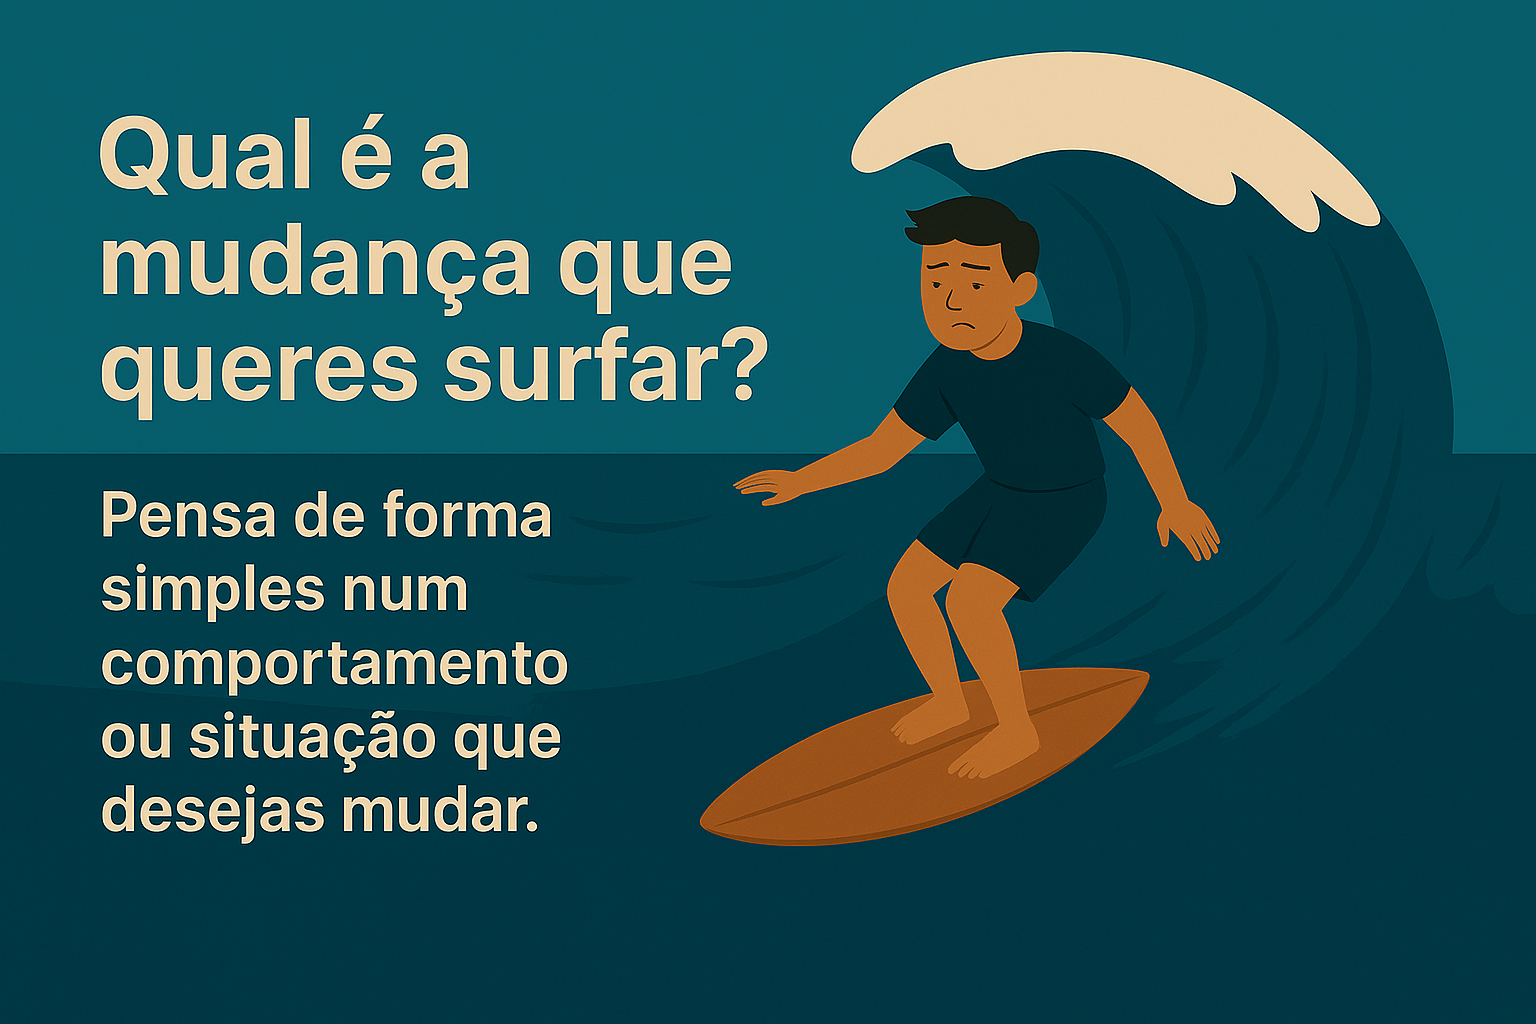
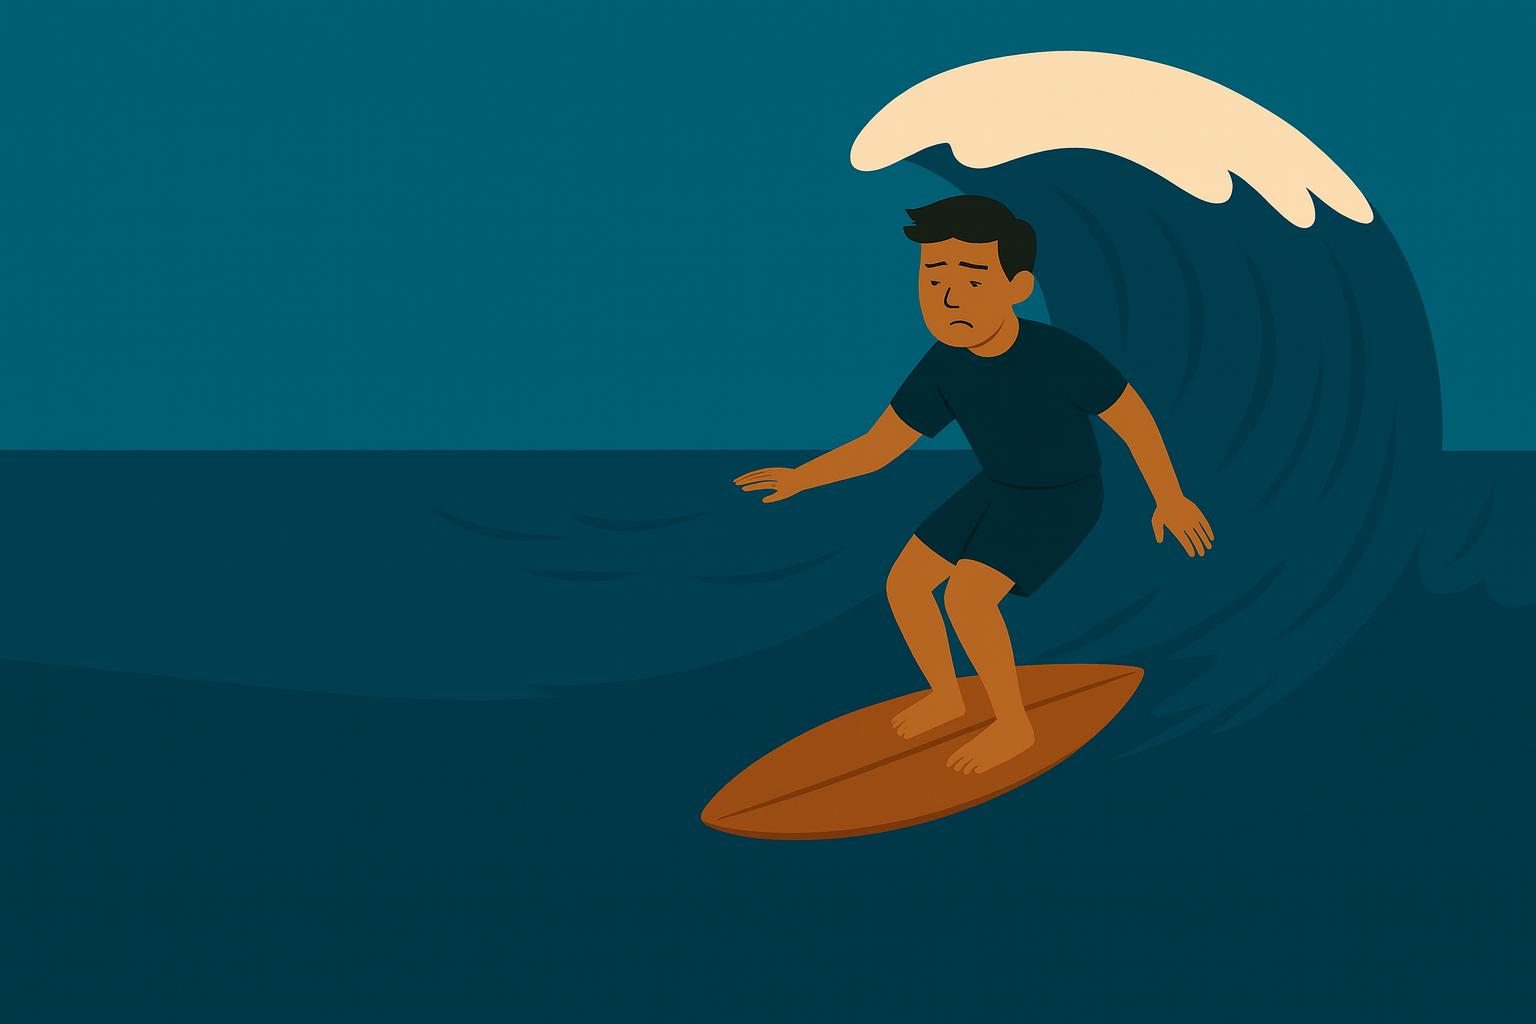
alteraçao da atividade resumo 4

diff --git a/src/components/atividades/modulo4/atividadeResumo.js b/src/components/atividades/modulo4/atividadeResumo.js
@@ -10,8 +10,6 @@ const AtividadeResumoMudanca = () => {
   const [pagina, setPagina] = useState(0);
   const [faseEscolhida, setFaseEscolhida] = useState("");
   const [faseDetalhes, setFaseDetalhes] = useState("");
-  const [pros, setPros] = useState("");
-  const [contras, setContras] = useState("");
   const [confianca, setConfianca] = useState("");
   const [confiancaDetalhes, setConfiancaDetalhes] = useState("");
   const [modalShow, setModalShow] = useState(false);
@@ -29,11 +27,12 @@ const AtividadeResumoMudanca = () => {
     setModalShow(true);
   };
 
-  // New function to handle phase button clicks (show modal with info)
-  const handlePhaseInfoClick = (faseKey) => {
-    setSelectedPhaseData(fases[faseKey]);
-    setPhaseModalShow(true);
-  };
+ const handlePhaseInfoClick = (faseKey) => {
+  const data = fases[faseKey];
+  setSelectedPhaseData(data);
+  setFaseDetalhes(data.descricao);
+  setPhaseModalShow(true);
+};
 
   const { id: moduloId } = useParams();
   const { updateUserData } = useContext(UserContext);
@@ -46,33 +45,28 @@ const AtividadeResumoMudanca = () => {
     setPagina((prev) => prev - 1);
   };
 
-  const progresso = Math.round((pagina / 5) * 100);
+  const progresso = Math.round((pagina / 4) * 100);
 
   const fases = {
     calmaria: {
       titulo: "Calmaria",
-      imagem: "/imgs/modulo4/resumo/image034.png",
-      descricao: "Nesta fase, ainda não sentes uma necessidade urgente de mudar. É como estar no mar calmo, onde tudo parece estar bem como está. Pode ser que ainda não tenhas identificado claramente o que queres mudar ou que não sintas que é o momento certo."
+      descricao: "O mar está calmo e, à primeira vista, nada parece urgente. Talvez haja sinais de que algo não está bem, mas ainda não são claros ou são facilmente postos de lado. Nesta fase, tal como quando olhamos para o mar sem pensar em surfar, ainda não estás totalmente decidido/a a entrar na água."
     },
     preparacao: {
       titulo: "Preparação",
-      imagem: "/imgs/modulo4/resumo/image036.png",
-      descricao: "Aqui já identificaste o que queres mudar e estás a preparar-te mentalmente. É como quando vês as ondas a formar-se ao longe e começas a ajustar a tua posição na prancha, preparando-te para remar."
+      descricao: "Ao longe, começa a formar-se uma onda e percebes que talvez seja o momento de agir. Já tens consciência de que algo precisa de mudar, mas ainda ponderas se deves ou não avançar agora. É como segurar a prancha e avaliar se esta é a melhor altura para entrar no mar."
     },
     remada: {
       titulo: "Remada",
-      imagem: "/imgs/modulo4/resumo/image038.png",
-      descricao: "Esta é a fase da ação! Começaste a fazer pequenas mudanças e estás ativamente a trabalhar em direção ao teu objetivo. É como remar com força para apanhar a onda - exige energia e determinação."
+      descricao: "Decidiste entrar na água e começas a remar. Estás a dar os primeiros passos concretos para a mudança, mesmo que sejam pequenos. Tal como o surfista que avança em direção à onda, estás a ganhar impulso para aproveitar o momento certo."
     },
     surfar: {
       titulo: "Surfar a Onda",
-      imagem: "/imgs/modulo4/resumo/image040.png",
-      descricao: "Estás no meio da mudança e sentes que tens controlo sobre o processo. É como quando consegues apanhar a onda perfeitamente e sentes a adrenalina de estar em equilíbrio, a deslizar sobre a água."
+      descricao: "Agora já estás na onda — a mudança está em movimento. Estás a aplicar novas estratégias e hábitos de forma consistente, tal como o surfista que aproveita a força da onda para avançar. É um momento activo e entusiasmante, em que cada movimento conta."
     },
     desafios: {
       titulo: "Desafios no Surf",
-      imagem: "/imgs/modulo4/resumo/image042.png",
-      descricao: "Às vezes a mudança traz dificuldades inesperadas ou sentes que estás a perder o controlo. É como quando a onda te derruba e tens de decidir se voltas a tentar ou se sais da água por um momento."
+      descricao: "Continuas a surfar, mas o mar pode mudar — ondas mais fortes ou correntes inesperadas podem surgir. Esta fase é sobre manter as mudanças que já conquistaste, mesmo quando aparecem desafios. Tal como no surf, é preciso adaptar-te e manter o rumo para seguir em frente."
     }
   };
 
@@ -111,10 +105,8 @@ const AtividadeResumoMudanca = () => {
   const canAdvanceFromPage = (currentPage) => {
     switch (currentPage) {
       case 2:
-        return faseEscolhida !== "";
+        return faseEscolhida !== "";;
       case 3:
-        return pros.trim() !== "" && contras.trim() !== "";
-      case 4:
         return confianca !== "";
       default:
         return true;
@@ -141,27 +133,27 @@ const AtividadeResumoMudanca = () => {
 
             {/* PÁGINA 0 - INTRODUÇÃO */}
             {pagina === 0 && (
-              <div className="text-start py-4">
+              <div className="text-center">
                 <h2 className="fw-bold mb-4" style={{ color: "#234970" }}>
                   Atividade Resumo
                 </h2>
                 <p className="lead mb-3">
-                  Sê muito <strong>bem-vindo</strong> ou <strong>bem-vinda</strong> à atividade <strong>resumo do Módulo 4 – O Poder da Mudança</strong>!
+                 <strong> Sê muito bem-vindo/a à atividade resumo do Módulo 4 – O Poder da Mudança</strong>!
                 </p>
                 <p className="mb-3 lead">
-                  O <strong>objetivo</strong> desta atividade é <strong>consolidar</strong> os <strong>conteúdos</strong> que explorámos ao longo do <strong>módulo</strong>.
+                  O objetivo desta atividade é <strong>consolidar os conteúdos</strong> que explorámos ao longo do módulo.
                 </p>
                 <p className="mb-3 lead">
-                  A <strong>mudança</strong> é como <strong>surfar uma onda</strong>: há momentos de <strong>calmaria</strong>, mas também há <strong>desafios</strong>.
+                  A mudança é como <strong>surfar uma onda</strong>: há momentos de <strong>calmaria</strong>, mas também há <strong>desafios</strong>.
                 </p>
                 <p className="mb-3 lead">
-                  Às vezes estamos <strong>prontos</strong> para apanhar a <strong>onda</strong> e, noutras, ela acaba por nos <strong>derrubar</strong>.
+                  Às vezes estamos prontos para apanhar a onda e, noutras, ela acaba por nos derrubar.
                 </p>
                 <p className="mb-3 lead">
                   Usando esta <strong>metáfora</strong>, vais criar o teu próprio <strong>percurso de mudança</strong>.
                 </p>
                 <p className="mb-4 lead">
-                  Pensa na <strong>mudança</strong> que gostarias de fazer e como a <strong>metáfora da onda</strong> pode ajudar-te a <strong>refletir</strong> sobre este <strong>processo</strong>.
+                  Pensa na <strong>mudança</strong> que gostarias de fazer e como a <strong>metáfora da onda</strong> pode ajudar-te a <strong>refletir</strong> sobre este processo.
                 </p>
                 <div className="text-center">
                   <button className="custom-btn-turquoise mt-2 px-4 py-2" onClick={avancarPagina}>
@@ -173,19 +165,28 @@ const AtividadeResumoMudanca = () => {
 
             {/* PÁGINA 1 - IMAGEM */}
             {pagina === 1 && (
-              <div className="text-center py-4">
-                <h4 className="fw-bold mb-4" style={{ color: "#234970" }}>
+                <div className="text-center"> 
+                <h4 className="text-center fw-bold mb-4"style={{ color: "#234970" }}>
                   A Metáfora da Onda
-                </h4>
-                <div className="mb-4">
+                   </h4>
+
+                   <p className="lead">
+               <strong>Qual é a mudança que queres surfar?</strong>
+               Pensa de forma simples num <strong>comportamento ou situação </strong>que desejas mudar.
+              </p>
+            
                   <img
                     src="/imgs/modulo4/resumo/resumo1.png"
                     alt="Metáfora da onda da mudança"
-                    className="img-fluid rounded shadow-sm"
-                    style={{ maxHeight: "400px", objectFit: "cover" }}
-                  />
-                </div>
-
+                    className="img-fluid mb-4"
+                   style={{
+                      width: "100%",        
+                      maxWidth: "500px",    
+                      height: "auto",       
+                      objectFit: "cover",   
+                    }}
+                    />
+          
                 <div className="d-flex justify-content-between mt-4">
                   <button className="custom-btn-pink" onClick={retrocederPagina}>
                     <i className="bi bi-arrow-left me-2"></i>Anterior
@@ -200,12 +201,15 @@ const AtividadeResumoMudanca = () => {
 
             {/* PÁGINA 2 - ESCOLHA DA FASE */}
             {pagina === 2 && (
-              <div className="py-4">
-                <h4 className="fw-bold mb-4" style={{ color: "#234970" }}>
+              <div className="text-center">
+                <h4 className="text-center fw-bold mb-4" style={{ color: "#234970" }}>
                   Em que fase da onda te encontras?
                 </h4>
                 <p className="mb-4">
-                  A <strong>mudança é como surfar uma onda</strong>, e cada fase é um <strong>momento específico</strong> no processo de mudança. Lembra-te que o ciclo de mudança tem <strong>cinco fases</strong> e tu já deste um grande passo, porque já identificaste o que queres mudar. Em que fase da <strong>onda da mudança te encontras</strong>? Carrega nas <strong>áreas da imagem</strong> para saber mais <strong>sobre cada fase</strong> e no final <strong>seleciona a fase que achas que te encontras</strong>.
+                A mudança é como <strong> surfar uma onda</strong>: cada fase representa um momento diferente neste processo. 
+                O ciclo de mudança tem cinco fases e tu já deste um passo importante — <strong>identificar o que queres mudar.</strong> 
+                Agora, <strong>observa </strong>as fases da onda e <strong> identifica </strong> qual delas descreve melhor o ponto em que estás.
+                Carrega nos círculos para saber mais sobre cada fase e, no final, <strong> seleciona </strong> aquela em que sentes que te encontras:
                 </p>
 
                 <div className="text-center mb-4">
@@ -213,12 +217,12 @@ const AtividadeResumoMudanca = () => {
                     <img 
                       src="/imgs/modulo4/resumo/fases.png" 
                       alt="Fases da Onda da Mudança" 
-                      style={{ 
-                        maxWidth: "600px", 
-                        width: "100%", 
-                        height: "auto",
-                        display: 'block'
-                      }}
+                       style={{
+                      width: "100%",        
+                      maxWidth: "500px",    
+                      height: "auto",       
+                      objectFit: "cover",   
+                    }}
                     />
                     
                     {/* Modified invisible clickable buttons - now open modals */}
@@ -320,14 +324,9 @@ const AtividadeResumoMudanca = () => {
                       {selectedPhaseData?.titulo}
                     </Modal.Title>
                   </Modal.Header>
-                  <Modal.Body className="text-center">
-                    <img
-                      src={selectedPhaseData?.imagem}
-                      alt={selectedPhaseData?.titulo}
-                      className="img-fluid mb-3"
-                      style={{ maxHeight: '400px', objectFit: 'contain' }}
-                    />
-                  </Modal.Body>
+                  <Modal.Body className="text-start">
+                      <p className="mb-0 lead">{selectedPhaseData?.descricao}</p>
+                    </Modal.Body>
                   <Modal.Footer
                     style={{
                       borderTop: "none",
@@ -362,10 +361,10 @@ const AtividadeResumoMudanca = () => {
                   </Modal.Footer>
                 </Modal>
 
-                {faseDetalhes && (
+               {faseDetalhes && (
                   <div className="alert alert-info" style={{ backgroundColor: '#e8f4f3', borderColor: '#99CBC8' }}>
                     <h6 className="fw-bold mb-2" style={{ color: "#234970" }}>
-                      {Object.entries(fases).find(([key]) => faseDetalhes === fases[key].descricao)?.[1]?.titulo}
+                      {selectedPhaseData?.titulo}
                     </h6>
                     <p className="mb-0">{faseDetalhes}</p>
                   </div>
@@ -394,71 +393,8 @@ const AtividadeResumoMudanca = () => {
               </div>
             )}
 
-            {/* Rest of your pages remain the same... */}
-            {/* PÁGINA 3 - PRÓS E CONTRAS */}
+            {/* PÁGINA 3 - NÍVEL DE CONFIANÇA */}
             {pagina === 3 && (
-              <div className="py-4">
-                <h4 className="fw-bold mb-4" style={{ color: "#234970" }}>
-                  Prós e Contras da Mudança
-                </h4>
-                <p className="mb-4">
-                  Agora, vamos olhar para o que te <strong>atrai na ideia de mudar</strong> e o que te <strong>deixa mais receoso</strong>. A metáfora da onda pode ajudar-te a visualizar esses prós e contras. <strong>Escreve nos espaços abaixo</strong>:
-                </p>
-
-                <div className="row">
-                  <div className="col-md-6 mb-4">
-                    <label className="form-label fw-bold">
-                      <i className="bi bi-plus-circle text-success me-2"></i>
-                      Prós (o que te atrai na mudança) *
-                    </label>
-                    <textarea
-                      className="form-control"
-                      rows="6"
-                      placeholder="Escreve os teus prós aqui"
-                      value={pros}
-                      onChange={(e) => setPros(e.target.value)}
-                    ></textarea>
-                  </div>
-                  <div className="col-md-6 mb-4">
-                    <label className="form-label fw-bold">
-                      <i className="bi bi-dash-circle text-warning me-2"></i>
-                      Contras (o que te deixa receoso sobre a mudança) *
-                    </label>
-                    <textarea
-                      className="form-control"
-                      rows="6"
-                      placeholder="Escreve os teus contras aqui"
-                      value={contras}
-                      onChange={(e) => setContras(e.target.value)}
-                    ></textarea>
-                  </div>
-                </div>
-
-                {!canAdvanceFromPage(3) && (
-                  <div className="alert alert-warning">
-                    <i className="bi bi-exclamation-triangle me-2"></i>
-                    É obrigatório preencher ambos os campos para continuar.
-                  </div>
-                )}
-
-                <div className="d-flex justify-content-between mt-4">
-                  <button className="custom-btn-pink" onClick={retrocederPagina}>
-                    <i className="bi bi-arrow-left me-2"></i>Anterior
-                  </button>
-                  <button
-                    className="custom-btn-turquoise"
-                    onClick={avancarPagina}
-                    disabled={!canAdvanceFromPage(3)}
-                  >
-                    Próximo
-                    <i className="bi bi-arrow-right ms-2"></i>
-                  </button>
-                </div>
-              </div>
-            )}
-
-            {/* PÁGINA 4 - NÍVEL DE CONFIANÇA */}
-            {pagina === 4 && (
               <div className="py-4">
                 <h4 className="fw-bold mb-4" style={{ color: "#234970" }}>
                   O teu nível de confiança
@@ -571,7 +507,7 @@ const AtividadeResumoMudanca = () => {
                   </div>
                 )}
 
-                {!canAdvanceFromPage(4) && (
+                {!canAdvanceFromPage(3) && (
                   <div className="alert alert-warning">
                     <i className="bi bi-exclamation-triangle me-2"></i>
                     É obrigatório selecionar um nível de confiança para continuar.
@@ -585,7 +521,7 @@ const AtividadeResumoMudanca = () => {
                   <button
                     className="custom-btn-turquoise"
                     onClick={avancarPagina}
-                    disabled={!canAdvanceFromPage(4)}
+                    disabled={!canAdvanceFromPage(3)}
                   >
                     Conclusão
                     <i className="bi bi-arrow-right ms-2"></i>
@@ -594,8 +530,8 @@ const AtividadeResumoMudanca = () => {
               </div>
             )}
 
-            {/* PÁGINA 5 - CONCLUSÃO */}
-            {pagina === 5 && (
+            {/* PÁGINA 4 - CONCLUSÃO */}
+            {pagina === 4 && (
               <>
                 <h4 className="fw-bold mb-4 text-start" style={{ color: "#234970" }}>Conclusão da Atividade</h4>
                 <p className="mb-3 lead">

diff --git a/src/components/atividades/modulo4/desafioSemanal.js b/src/components/atividades/modulo4/desafioSemanal.js
@@ -25,15 +25,13 @@ const DesafioSemanal = () => {
 
       <p className="mb-3">
         Quando isso acontecer, convida-te a fazer o seguinte: <br></br><br></br>
-        <strong>1.	Balanço decisional:</strong><br></br><br></br>
+        <strong>Pergunta-te, sem julgar:</strong><br></br><br></br>
         <ul style={{ marginTop: "0px" }}>
           <li> Se continuar como estou, quais são os <strong> prós? </strong> E quais são os <strong>contras?</strong></li>
           <li> Se fizer algo novo ou diferente, quais são os <strong> prós? </strong> E quais são os <strong>contras?</strong></li>
-        </ul>
-
-        <strong>2.	Quando eu já fui capaz:</strong><br></br><br></br>
-        <ul style={{ marginTop: "0px" }}>
-          <li>Lembra-te de uma vez em que enfrentaste algo <strong>semelhante e conseguiste</strong>.</li>
+          </ul>
+         <p className="mb-3"> <strong>Lembra-te de uma vez em que enfrentaste algo semelhante e conseguiste</strong>.</p> 
+           <ul>
           <li>Que<strong> estratégias </strong>usaste nessa altura?</li>
           <li>O que <strong> fizeste </strong>dessa vez que podes aplicar agora?</li>
         </ul>
